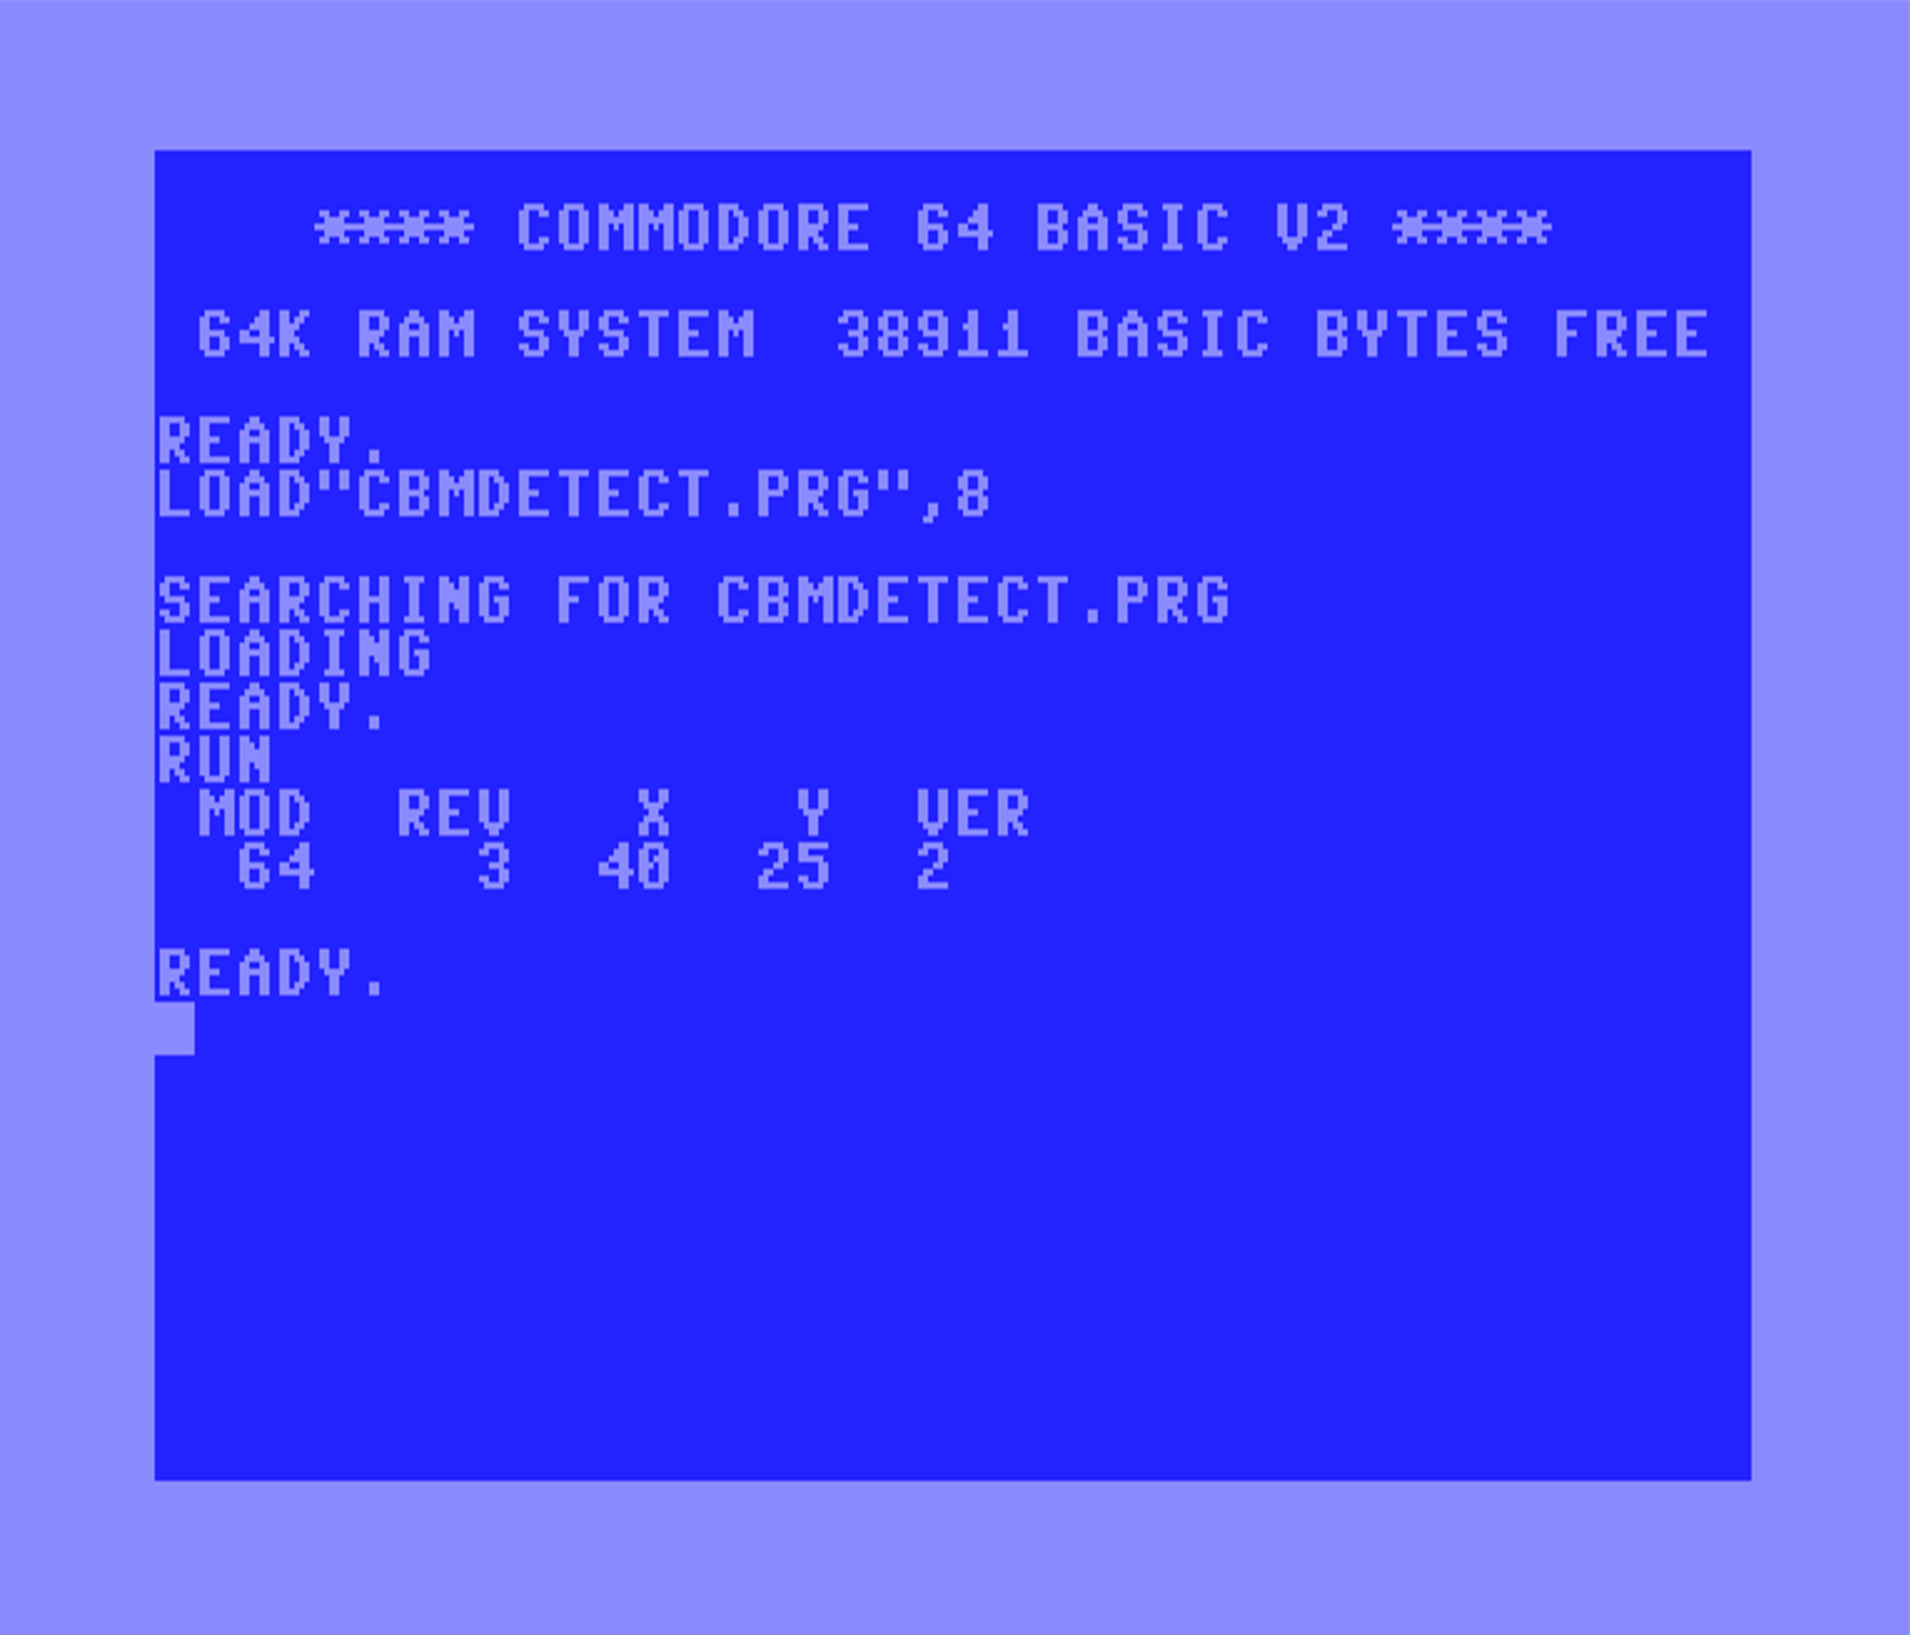
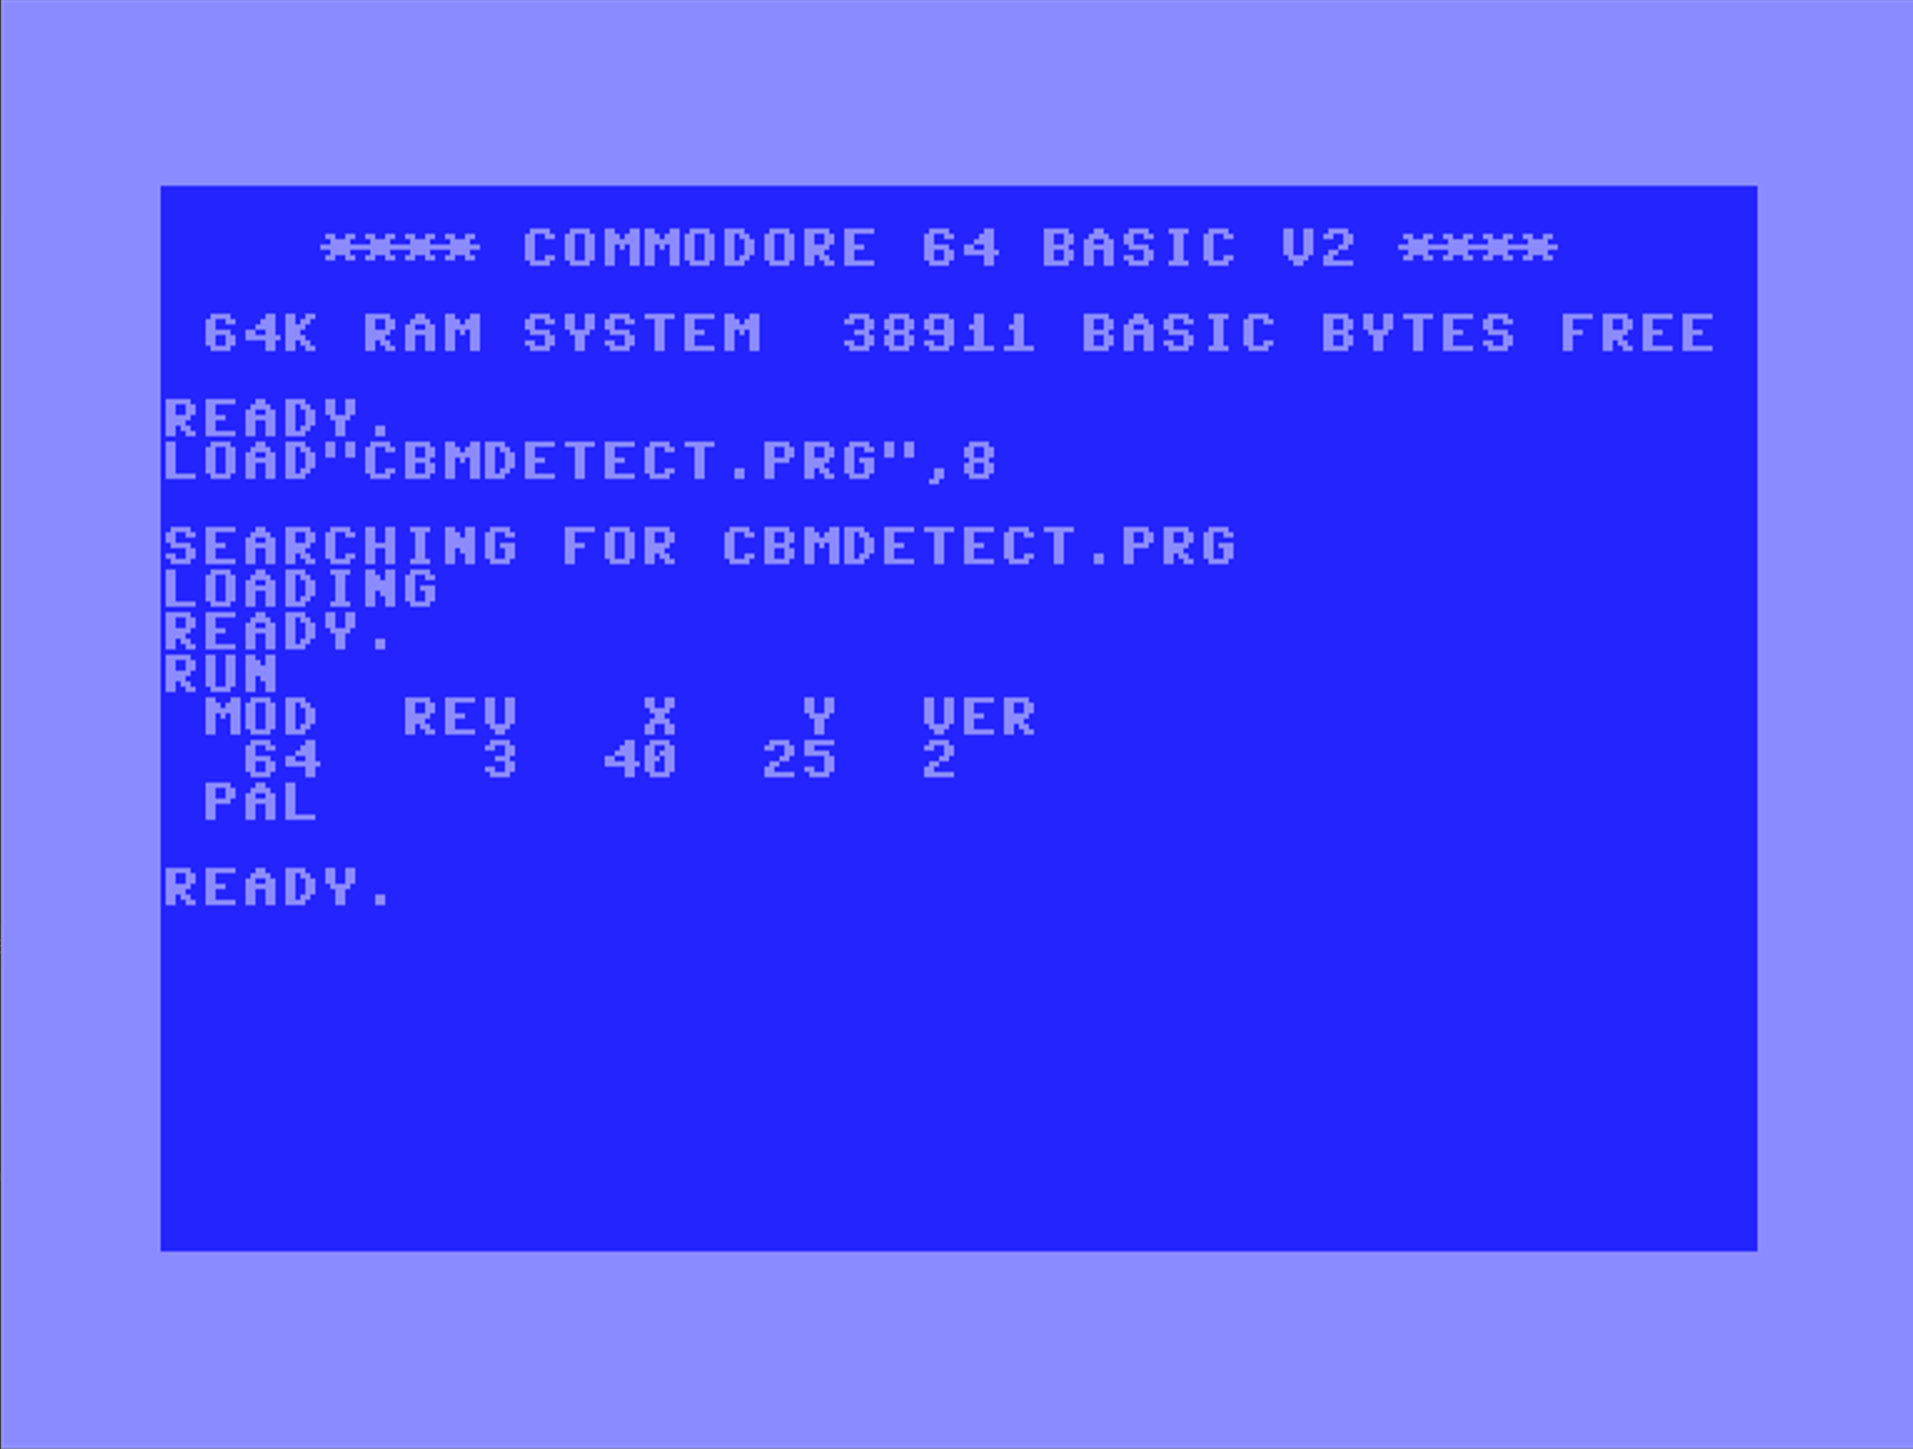
add ntsc/pal detection

diff --git a/README.md b/README.md
@@ -1,6 +1,6 @@
 # CBM Detect
 
-Commodore model detection displays model, firmware revision, text columns/rows, and BASIC version
+Commodore model detection displays model, firmware revision, text columns/rows, BASIC version, and PAL/NTSC
 
 Supports Vic-20, C64, 264 series (C116, C16, plus/4), C128 including C64 running 64'er BASIC 3.5.  Displays detected RAM for 264 series.
 
@@ -30,6 +30,7 @@ Output:
 ````
  MOD  REV   X   Y  VER
   64    3  40  25  2
+ PAL
 ````
 
 ![screenshot.png](screenshot.png)
